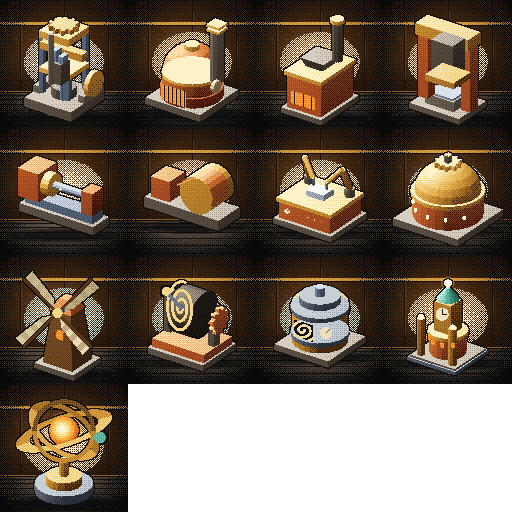
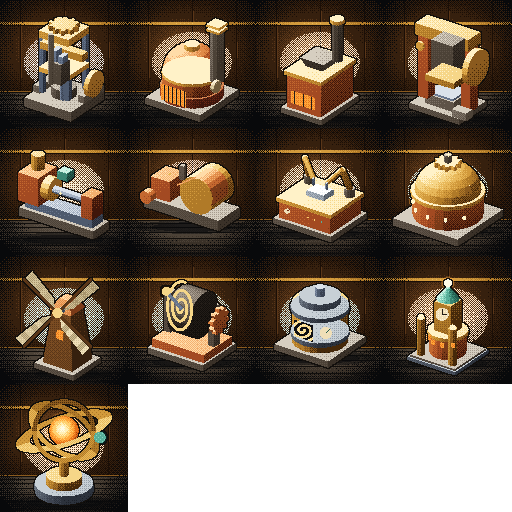
Brasswork: more moving parts on the press, lathe and wire drawer
Press: motor and drive belt, feed rollers, pressure gauge needle, hazard plate.
Lathe: drive belt, carriage handwheel, swarf tray, coolant tank and drip.
Wire drawer: tension arm with guide roller, spare reel rack, lube pot.
Portraits redrawn to match. Footprints and ports unchanged.

diff --git a/lib/automation/models/machines/press.ts b/lib/automation/models/machines/press.ts
@@ -1,7 +1,7 @@
 // Stamp press, 2x3. A brass portal frame with a heavy ram that slams onto an iron die, driven by a big
 // six-spoke flywheel on the right side. Feed from the back left, plates out the front left.
 
-import { Builder, spin, slide } from "./builder";
+import { Builder, spin, slide, swing } from "./builder";
 import { C } from "./palette";
 import { plinth, hopperBack, chuteFront, statusLamp, speckle } from "./common";
 
@@ -43,10 +43,31 @@ export function press() {
     b.part("flywheel", [19, 21, 15], spin("x", 0.45));
     b.wheel("x", 21, 15, 8.5, 18, 20, C.brass, 6, 2);
     b.cyl("x", 21, 15, 1.5, 17, 20, C.brassD);
+    // Drive belt from the flywheel hub down to a motor on the plinth, and the motor's pulley.
+    b.body();
+    b.box(14, 2, 22, 19, 7, 27, C.steelD);
+    for (let y = 3; y < 7; y += 2) b.box(14, y, 22, 19, y + 1, 27, C.soot); // cooling fins
+    b.box(19, 7, 23, 20, 21, 24, C.soot); // belt
+    b.part("motorPulley", [19, 6, 24], spin("x", 1.8));
+    b.wheel("x", 6, 24, 2, 18, 20, C.brass, 4, 1);
+    // Feed rollers on the tray, turning as blanks go in.
+    b.part("rollerA", [6, 5, 5], spin("x", 1.2));
+    b.cyl("x", 5, 5, 1.2, 3, 9, C.iron);
+    b.part("rollerB", [6, 5, 8], spin("x", 1.2, { phase: 0.3 }));
+    b.cyl("x", 5, 8, 1.2, 3, 9, C.iron);
+    // Pressure gauge on the left column with a needle that kicks on each stroke.
+    b.body();
+    b.cyl("z", 3, 26, 2.2, 20, 21, C.brass);
+    b.cyl("z", 3, 26, 1.6, 21, 22, C.cream);
+    b.part("needle", [3, 26, 22], swing("z", 0.7, 0.45));
+    b.box(3, 26, 22, 4, 28, 23, C.red);
+    // Hazard plate on the die bed.
+    b.body();
+    for (let x = 4; x < 16; x++) b.set(x, 7, 22, x % 2 ? C.brassL : C.soot);
     b.body();
     hopperBack(b, 0);
     chuteFront(b, 0);
-    statusLamp(b, 16, 4, 25);
+    statusLamp(b, 16, 9, 25);
     // Forming family: iron and steel bodies, brass kept for trim and moving parts.
     b.retone({ [C.brassD]: C.ironD, [C.brassM]: C.iron });
     return b.build();

diff --git a/lib/automation/models/machines/drawer.ts b/lib/automation/models/machines/drawer.ts
@@ -1,7 +1,7 @@
 // Wire drawer, 1x2. Copper is pulled from the back through a brass die block and wound onto a big
 // flanged drum at the front. A capstan turns on the die and a gear pair turns on the side.
 
-import { Builder, spin } from "./builder";
+import { Builder, spin, swing } from "./builder";
 import { C } from "./palette";
 import { plinth, hopperBack, chuteFront, statusLamp } from "./common";
 
@@ -41,6 +41,19 @@ export function drawer() {
     b.gear("x", 5, 7, 2, 3, 8, 9, 10, C.brassD, { hole: 0.6 });
     b.part("gearB", [9.5, 5, 12], spin("x", -0.9));
     b.gear("x", 5, 12, 2, 3, 8, 9, 10, C.brass, { hole: 0.6, phase: 0.5 });
+    // Tension arm riding on the wire between die and drum, with a guide roller at its tip.
+    b.body();
+    b.box(8, 9, 11, 9, 16, 12, C.steelD);
+    b.part("tension", [8, 15, 11], swing("x", 0.25, 0.9));
+    b.box(5, 15, 11, 8, 16, 12, C.steel);
+    b.cyl("x", 14, 11, 1, 4, 7, C.brassL);
+    // Spool rack with a spare full reel beside the drum.
+    b.body();
+    b.box(1, 2, 18, 5, 5, 20, C.steelD);
+    b.cyl("z", 3, 7, 1.6, 17, 20, C.cu);
+    b.cyl("z", 3, 7, 2.2, 17, 18, C.brass);
+    // Lubricant pot on the die with a drip.
+    b.box(6, 14, 7, 8, 16, 9, C.patina);
     b.body();
     hopperBack(b, 0, 8);
     chuteFront(b, 0);

diff --git a/lib/automation/models/machines/lathe.ts b/lib/automation/models/machines/lathe.ts
@@ -40,6 +40,21 @@ export function lathe() {
     b.box(1, 24, 4, 9, 25, 6, C.steel);
     b.part("pulley", [5, 22, 5], spin("z", 1.1));
     b.wheel("z", 5, 22, 2.6, 4, 6, C.brass, 4, 1);
+    // Drive belt from the overhead pulley down to the headstock.
+    b.body();
+    b.box(4, 19, 4, 5, 22, 5, C.soot);
+    // Handwheel on the carriage apron, turning as it feeds.
+    b.part("handwheel", [1, 11, 12], spin("x", 0.7));
+    b.wheel("x", 11, 12, 2, 0, 1, C.brassL, 4, 1);
+    // Swarf curls caught in the tray under the cut.
+    b.body();
+    b.box(2, 8, 9, 8, 9, 14, C.soot);
+    for (const [x, z] of [[3, 10], [5, 12], [7, 11], [4, 13]]) b.set(x, 9, z, C.al);
+    // Coolant tank and drip pipe over the cutter.
+    b.box(8, 19, 10, 10, 22, 12, C.patina);
+    b.box(8, 15, 11, 9, 19, 12, C.steelD);
+    b.part("drip", [7, 14, 11], slide("y", 1, 1.5, { wave: "stamp" }), true);
+    b.set(7, 14, 11, C.glass);
     b.body();
     hopperBack(b, 0, 9);
     chuteFront(b, 0);

diff --git a/lib/automation/art/index.ts b/lib/automation/art/index.ts
@@ -2,8 +2,8 @@
 
 /** Machine portraits: 128 px art cells, 4 across, each machine on a lamplit workshop bench. */
 export const PORTRAIT_SHEET = {
-    url: "/brasswork/art/portraits.webp?v=274ebcae",
-    png: "/brasswork/art/portraits.png?v=274ebcae",
+    url: "/brasswork/art/portraits.webp?v=3f1793a9",
+    png: "/brasswork/art/portraits.png?v=3f1793a9",
     cell: 128,
     cols: 4,
     rows: 4,
@@ -144,9 +144,9 @@ export const PORTRAIT_MODEL_HASH: Record<string, string> = {
     drill: "1aee9e767006",
     kiln: "6817bbe8729c",
     furnace: "4dda85701f67",
-    press: "16e5498070a8",
-    lathe: "373ea424d10f",
-    drawer: "df0b61e07462",
+    press: "f0c0747a4b21",
+    lathe: "465405b405c2",
+    drawer: "26711ffe126e",
     assembler: "844b0129349b",
     fabricator: "d99fc98170c6",
     windmill: "319f08ebeded",

diff --git a/scripts/brasswork/bw_machines.py b/scripts/brasswork/bw_machines.py
@@ -108,6 +108,9 @@ def press(p=0):
     sc.box(-15, 15, 36, 42, -5, 5, "brass", 0.0)
     sc.box(-6, 6, 18, 36, -5, 5, "steel", 0.0)
     sc.box(-8, 8, 15, 18, -7, 7, "brass", -0.05)
+    sc.cylinder((14, 26, 0), (17, 26, 0), 9, "brass", 0.05, n=18)
+    sc.cylinder((-13, 30, 3.2), (-13, 30, 4.4), 2.2, "brass", 0.1, n=12)
+    sc.box(10, 18, 3, 7, 6, 11, "steel", 0.2)
     sc.paint(c)
     return done(c)
 
@@ -122,6 +125,8 @@ def lathe(p=0):
     sc.cylinder((-9, 15, 0), (-5, 15, 0), 5.5, "brass", 0.05, n=16)
     sc.cylinder((-5, 15, 0), (14, 15, 0), 1.8, "iron", 0.2, n=10)
     sc.box(12, 18, 8, 19, -4, 4, "cu", -0.05)
+    sc.box(-2, 3, 22, 26, -3, 2, "patina", 0.05)
+    sc.cylinder((-14, 23, 0), (-14, 30, 0), 3, "brass", 0.0, n=12)
     sc.paint(c)
     q = sc.pt((-3, 15, 2))
     c.spark(q[0] + 4, q[1] + 1, 1, P["glow"][5])
@@ -136,6 +141,8 @@ def drawer(p=0):
     sc.box(-18, -8, 5, 15, -6, 6, "cu", 0.0)
     sc.cylinder((8, 14, -8), (8, 14, 8), 9, "brass", 0.0, n=20)
     sc.cylinder((8, 14, -6), (8, 14, 6), 7.5, "cu", 0.05, n=20, caps=False)
+    sc.cylinder((-16, 8, 9), (-16, 8, 13), 3, "cu", 0.1, n=12)
+    sc.box(-6, -4, 15, 22, -1, 1, "steel", 0.1)
     sc.paint(c)
     a, b = sc.pt((-8, 11, 0)), sc.pt((2, 18, 0))
     c.fill(line(*a, *b, 1.4), 0.8, "cu")
